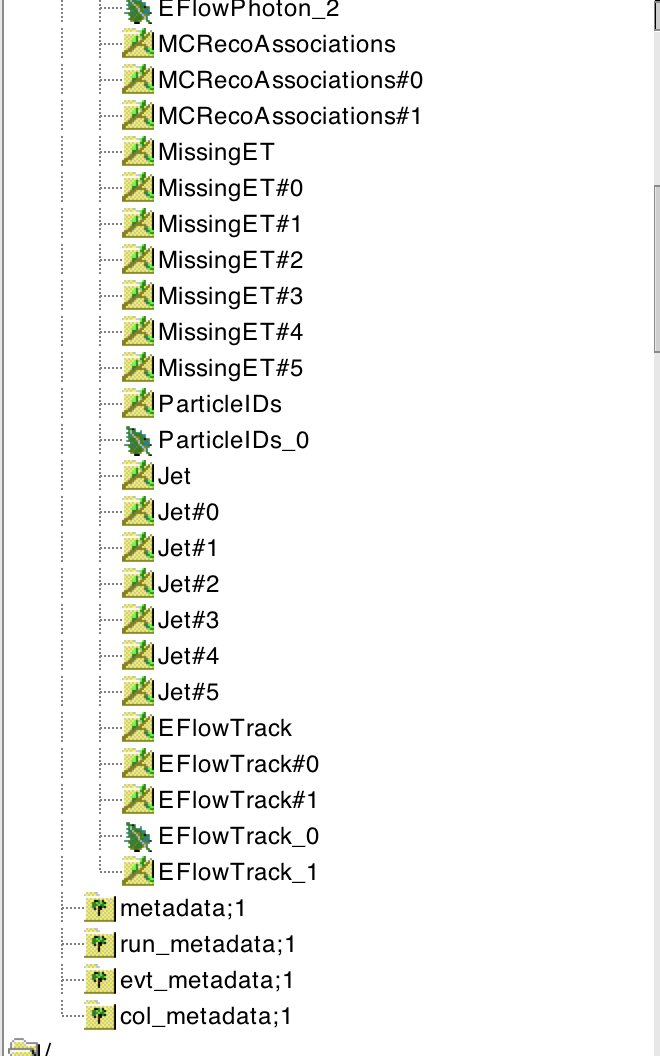
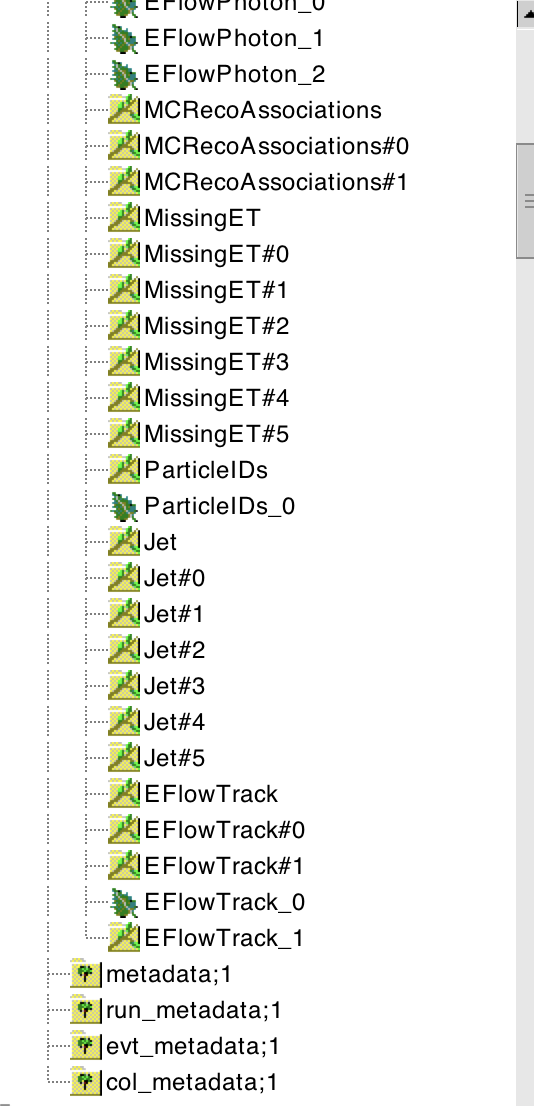
Minor update of the README of examples/basics in the basicexamples branch and of the corresponding screenshots (now using  as example a file from the spring2021 campaign, instead of an older file with  a slightly different event  content)

diff --git a/examples/basics/README.md b/examples/basics/README.md
@@ -47,22 +47,23 @@ Structure of EDM4HEP files
 ==========================
 
 The content of an EDM4HEP file can be seen by opening it in ROOT, and by inspecting the content of the "events" tree with a TBrowser.
-Example:
+Example with  a file from the "spring2021" campaign :
 ```
-root /eos/experiment/fcc/ee/generation/DelphesEvents/spring2021/IDEA/wzp6_ee_mumuH_ecm240.root
+root /eos/experiment/fcc/ee/generation/DelphesEvents/spring2021/IDEA/wzp6_ee_mumuH_ecm240/events_012879310.root spring2021_wzp6_ee_mumuH_ecm240.root
 root[0] TBrowser b
 ```
 <img src="figs/browser_events.png" alt="drawing" width="480"/>
 
 As shown in the screenshot above, there are two types of branches:
 
-  - Branches without a pound (#) in their name:  Electron (1), Muon (2), EFlowNeutralHadron (3), Particle (4), Photon (5), ReconstructedParticles (6), EFlowPhoton (7), MCRecoAssociations (8), MissingET (9), ParticleIDs (10), Jet (11), EFlowTrack (12), EFlowTrack\_1 (13). They refer to collections of objects.
+  - Branches without a pound (#) in their name:  Electron (1), Muon (2), AllMuon (3), EFlowNeutralHadron (4), Particle (5), Photon (6), ReconstructedParticles (7), EFlowPhoton (8), MCRecoAssociations (9), MissingET (10), ParticleIDs (11), Jet (12), EFlowTrack (13), EFlowTrack\_1 (14). They refer to collections of objects.
+    - NB: "Particle" denotes the collection of Monte-Carlo particles. "Muon" contains the isolated muons, while "AllMuon" contains all muons, isolated or not.
   - Branches with a pound in their name:  Each of the object collections listed above, e.g. "Collection", has up to six associated collections of references, 
     i.e. indices that point to another or to the same object collection. They are labeled Collection#i, with i = 0 ... 5. For example, the Muon collection has one single
     associated collection of references, Muon#0. 
 
 To figure out which collection is pointed to by Muon#0 (or by any other collection of references), one can look at the value of Muon#0.collectionID (see screenshot below). 
-The collectionID of Muon#0 is the collection number 6 (in the example file used here), which, in the list of "object collections" above, corresponds to the collection of ReconstructedParticles. 
+The collectionID of Muon#0 is the collection number 7 (in the example file used here), which, in the list of "object collections" above, corresponds to the collection of ReconstructedParticles. 
 Indeed, the Muon collection itself contains nothing (see screenshot below): all the information is contained in the ReconstructedParticles. The Muon collection,
 together with Muon#0, just provides a convenient way to access, among the ReconstructedParticles, those that were identified as muons.
 
@@ -75,7 +76,7 @@ by inspecting it in the browser:
 
 
 The "Particle" collection corresponds to the Monte-Carlo particles. It has two associated collections of references, Particle#0 and Particle#1. As can
-be seen by looking at their collectionID, they both point to collection number 4, i.e.  to the Particle collection itself. Particle#0 and
+be seen by looking at their collectionID, they both point to collection number 5, i.e.  to the Particle collection itself. Particle#0 and
 Particle#1 contain, respectively, links to the parents and to the daughters of the MC particles - as can be seen in the [edm4hep yaml description here](https://github.com/key4hep/EDM4hep/blob/master/edm4hep.yaml#L118-L119).
 Examples will be given below, showing how to navigate through the Monte-Carlo record using Particle, Particle#0 and Particle#1.
 
@@ -118,8 +119,8 @@ Association between RecoParticles and MonteCarloParticles
 ==========================================================
 
 By design, the association between the reconstructed particles and the Monte-Carlo particles proceeds via the MCRecoAssociations collection, and its two
-associated  collections of references, MCRecoAssociations#0 and MCRecoAssociations#1, all of the same size. The collectionID of MCRecoAssociations#0 is equal to 6 in the example file used here (see above, "Structure of EDM4Hep files"), which means
-that MCRecoAssociations#0 points to the ReconstructedParticles. While the collectionID of MCRecoAssociations#1 is equal to 4, i.e. 
+associated  collections of references, MCRecoAssociations#0 and MCRecoAssociations#1, all of the same size. The collectionID of MCRecoAssociations#0 is equal to 7 in the example file used here (see above, "Structure of EDM4Hep files"), which means
+that MCRecoAssociations#0 points to the ReconstructedParticles. While the collectionID of MCRecoAssociations#1 is equal to 5, i.e. 
 MCRecoAssociations#1 points to the Particle collection (i.e. the Monte-Carlo particles).    
 
 Their usage is best understood by looking into the code of [ReconstructedParticle2MC::getRP2MC_index](https://github.com/HEP-FCC/FCCAnalyses/blob/master/analyzers/dataframe/ReconstructedParticle2MC.cc#L123-L133) reported below:
@@ -149,7 +150,7 @@ which, in a FCCAnalyses configuration file, will be called via :
 The method getRP2MC_index creates a vector that maps the reconstructed particles and the MC particles:
 RP\_MC\_index[ ireco ] = imc ,  where ireco is the index of a reco'ed particle in the ReconstructedParticle collection, and imc is the index, in the Particle collection, of its associated MC particle.   
 
-Careful: as can be seen from the code, the method getRP2MC_index must be passed the full collection, ReconstructedParticles, and **not** a subset of reco'ed particles. 
+**Careful:** as can be seen from the code, the method getRP2MC_index must be passed **the full collection**, ReconstructedParticles, and **not** a subset of reco'ed particles. 
 To retrieve the associated MC particle of one reco'ed particle, or of a subset of reco'ed particles, one should have kept track of the indices of these
 particles in the ReconstructedParticles collection. It can be a good practise to design analyses that primarily use indices of RecoParticles, instead of
 the RecoParticles themselves.
